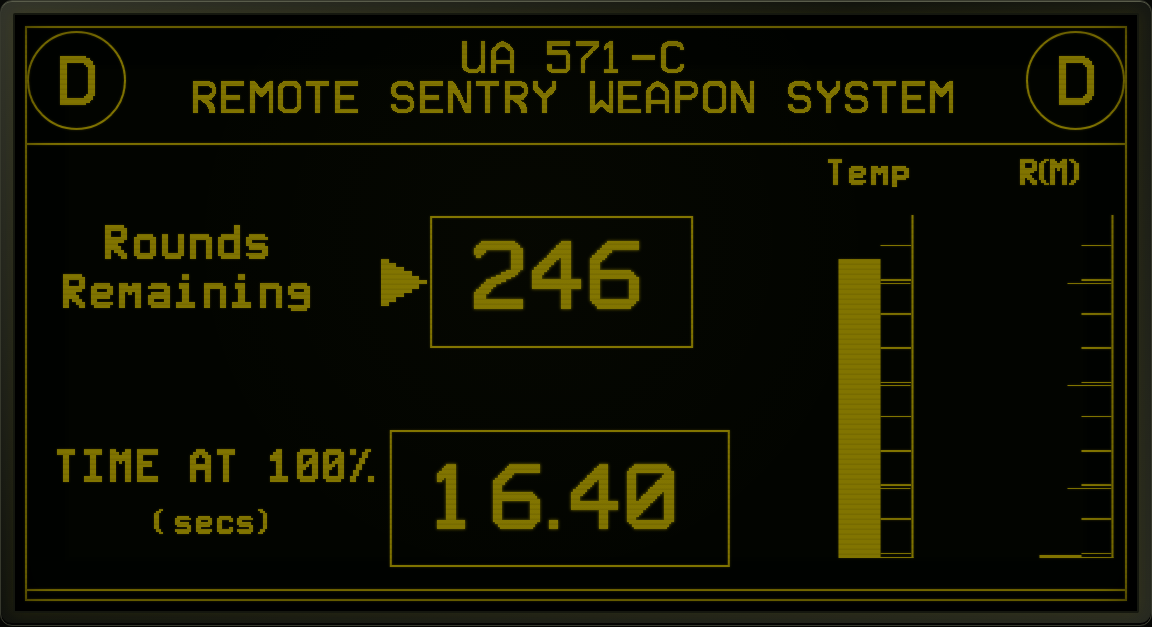
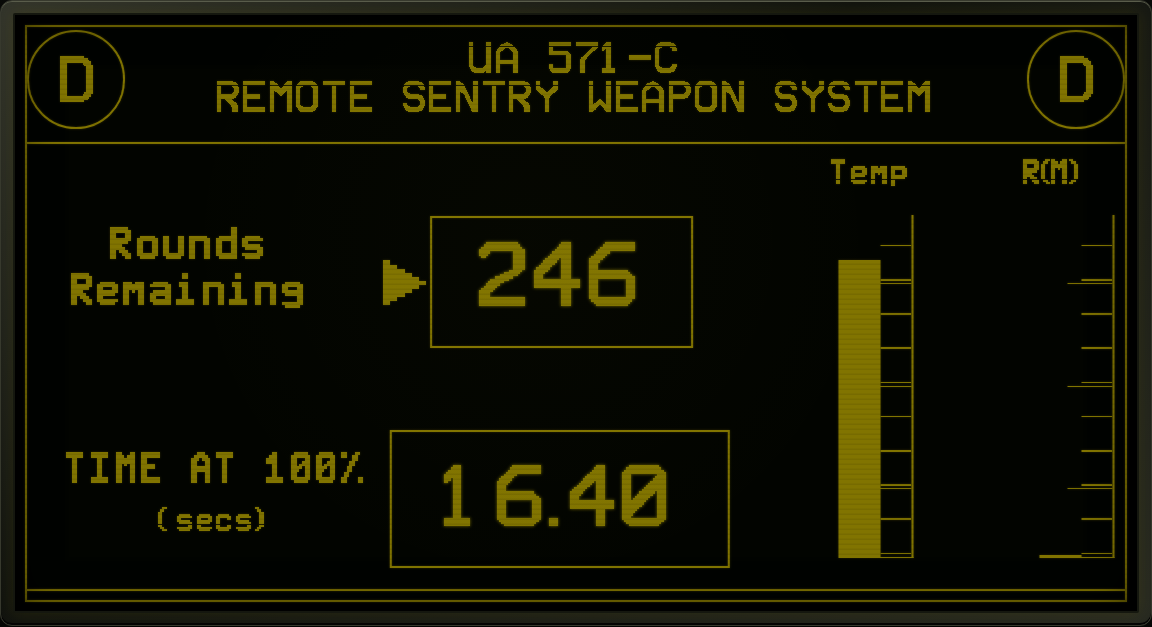
cleanup

diff --git a/index.html b/index.html
@@ -10,7 +10,7 @@
   <meta name="robots" content="index,follow,max-image-preview:large">
 
   <title>UA 571-C Remote Sentry System</title>
-  <link rel="canonical" href="https://UA571C.com/">
+  <link rel="canonical" href="https://ua571c.com/">
   <link rel="icon" href="favicon.svg" type="image/svg+xml">
   <link rel="manifest" href="site.webmanifest">
 
@@ -18,8 +18,9 @@
   <meta property="og:site_name" content="UA571C.com">
   <meta property="og:title" content="UA 571-C Remote Sentry System">
   <meta property="og:description" content="A keyboard-controlled working-prop study of the remote sentry terminal from Aliens.">
-  <meta property="og:url" content="https://UA571C.com/">
-  <meta property="og:image" content="https://UA571C.com/preview.png">
+  <meta property="og:url" content="https://ua571c.com/">
+  <meta property="og:image" content="https://ua571c.com/preview.png">
+  <meta property="og:image:type" content="image/png">
   <meta property="og:image:width" content="1152">
   <meta property="og:image:height" content="627">
   <meta property="og:image:alt" content="A black and yellow UA 571-C remote sentry system terminal interface.">
@@ -27,7 +28,7 @@
   <meta name="twitter:card" content="summary_large_image">
   <meta name="twitter:title" content="UA 571-C Remote Sentry System">
   <meta name="twitter:description" content="Boot, configure, test, and operate the fictional remote sentry terminal.">
-  <meta name="twitter:image" content="https://UA571C.com/preview.png">
+  <meta name="twitter:image" content="https://ua571c.com/preview.png">
   <meta name="twitter:image:alt" content="A black and yellow UA 571-C remote sentry system terminal interface.">
 
   <link rel="stylesheet" href="styles.css">
@@ -37,7 +38,7 @@
     "@context": "https://schema.org",
     "@type": "WebSite",
     "name": "UA571C.com",
-    "url": "https://UA571C.com/",
+    "url": "https://ua571c.com/",
     "description": "A keyboard-controlled working-prop study of the fictional UA 571-C remote sentry terminal.",
     "creator": {
       "@type": "Person",

diff --git a/README.md b/README.md
@@ -1,27 +1,17 @@
 # UA571C.com
 
 [![CI](https://github.com/banastas/UA571C.com/actions/workflows/ci.yml/badge.svg)](https://github.com/banastas/UA571C.com/actions/workflows/ci.yml)
-[![Checks](https://img.shields.io/badge/unit%20tests-20%20passing-817400?style=flat-square&labelColor=020300)](#verification)
 [![Runtime](https://img.shields.io/badge/runtime-zero%20dependencies-fff600?style=flat-square&labelColor=020300)](#local-development)
 
-A keyboard-controlled working-prop study of the UA 571-C remote sentry terminal from <a href="https://onesheet.org/movie/aliens-1986/">*Aliens*</a>.
+A keyboard-controlled working-prop study of the UA 571-C remote sentry terminal from [*Aliens*](https://onesheet.org/movie/aliens-1986/).
 
-![The UA 571-C terminal running in a desktop browser](preview.png)
+**[Launch the terminal at UA571C.com](https://ua571c.com/)**
 
-UA571C.com is a product site that stays inside the product. There is no conventional landing page, navigation, feature grid, or gallery. The visitor boots directly into the fictional remote terminal, configures the system, runs its test routine, arms it, and watches 500 rounds disappear.
+[![The UA 571-C terminal showing 246 rounds remaining in a desktop browser](preview.png)](https://ua571c.com/)
 
-The interface is rebuilt in HTML, CSS, and JavaScript from visual references. No film stills, video, audio, frameworks, or third-party runtime services are shipped with the site. The terminal self-hosts browser conversions of the original 1984 GRiD bitmap font binaries preserved by [Thom Cherryhomes](https://github.com/tschak909), whose [UA571C reconstruction](https://github.com/tschak909/UA571C) includes the recovered GRiD development environment and source.
+UA571C.com stays inside the product. There is no conventional landing page, navigation, feature grid, or gallery. The visitor boots directly into the fictional remote terminal, configures the system, runs its test routine, arms it, and watches 500 rounds disappear.
 
-The recovered Pascal source maps TypeBlock 12×16 to the header and numeric readouts, TypeBlock 24×32 to the unit roundels, TypeBlock 9×12 to fields and telemetry labels, and TypeGRiD 5×8 to system text. In the responsive browser version, the header and counters use the original 24×32 companion face as well: it preserves the same GRiD construction at display sizes where the packed 12×16 strokes become ambiguous. The original `.TYP` objects, mechanical WOFF2 conversions, attribution, and reproducible converter are all included in [`assets/fonts`](assets/fonts/README.md).
-
-The current telemetry layout follows the clearest full-screen film reference, including its `D` roundels. `UA 571-C` is the weapon model; the roundel letter identifies the active sentry unit.
-
-The boot sequence completes automatically. Press `Escape`, activate the skip
-button, or click anywhere on the boot screen to enter the terminal immediately.
-
-Generated font assets use content-hashed filenames because Cloudflare serves
-them with a long immutable cache lifetime. Regenerating a font therefore also
-requires updating its filename and the matching `@font-face` URL.
+The interface is rebuilt in HTML, CSS, and JavaScript from visual references. It ships no film stills, video, recorded audio, framework, or third-party runtime library. Terminal audio is synthesized locally with the Web Audio API after user input.
 
 ## Controls
 
@@ -38,21 +28,24 @@ requires updating its filename and the matching `@font-face` URL.
 | `?` | Show the command overlay |
 | `Esc` | Cease fire or close the current overlay |
 
-Every selector and command is also clickable or tappable. Audio is synthesized locally with the Web Audio API and begins only after user input.
+Every selector and command also has a pointer and touch path. The boot sequence completes automatically. Press `Escape`, activate the skip button, or click the boot surface to enter the terminal immediately.
 
-## Analytics
+Phones and tablets operate in landscape. Installed and fullscreen modes request a landscape display. Portrait browser sessions show a focused rotation interlock and safely cease active or automatic fire until the device returns to landscape. Reduced-motion preferences skip the animated boot sequence.
 
-Google Analytics 4 (`G-T97SY9N13B`) measures the production terminal journey, including boot completion, selector changes, diagnostics, view changes, firing sessions, reloads, automatic engagement, sound/fullscreen/help use, faults, and the orientation interlock. The tag is production-host gated, excludes URL queries and fragments, disables Google Signals and ad-personalization signals, and never emits per-round events. Local development and hosting previews remain silent.
+## Original GRiD fonts
 
-The event and parameter contract, GA4 custom-definition map, privacy boundary, and runtime verification procedure are documented in [`docs/ANALYTICS.md`](docs/ANALYTICS.md).
+The terminal self-hosts browser conversions of the original 1984 GRiD bitmap font binaries preserved by [Thom Cherryhomes](https://github.com/tschak909), whose [UA571C reconstruction](https://github.com/tschak909/UA571C) includes the recovered GRiD development environment and Pascal source.
 
-Phones and tablets operate in landscape. Installed/fullscreen mode requests a landscape display, while portrait browser sessions show a focused device-rotation interlock and safely cease any active or automatic fire until the device returns to landscape. The interlock follows the visual viewport during rotation so transient iOS Safari orientation-query lag cannot obscure the landscape terminal.
+The recovered source maps TypeBlock 12×16 to headers and numeric readouts, TypeBlock 24×32 to unit roundels, TypeBlock 9×12 to fields and telemetry labels, and TypeGRiD 5×8 to system text. This responsive browser version uses the original 24×32 companion face for headers and counters because its strokes remain legible at display sizes where the packed 12×16 face becomes ambiguous.
+
+The original `.TYP` objects, deterministic WOFF2 conversions, attribution, and reproducible converter are documented in [`assets/fonts`](assets/fonts/README.md). Generated font filenames contain a content digest because production serves them with an immutable cache lifetime.
 
 ## Local development
 
-The site is intentionally build-free and has no runtime dependencies. Starting it locally requires only Python; the optional browser test suite uses Playwright.
+The site is build-free and has no runtime dependencies. Node.js 20 or newer is required for the development and browser-test tooling.
 
 ```sh
+npm ci
 npm start
 ```
 
@@ -60,83 +53,81 @@ Open <http://localhost:4173>.
 
 ## Verification
 
+Run the fast state, analytics, font, structure, metadata, deployment, and accessibility checks:
+
 ```sh
 npm run check
 ```
 
-For the desktop and mobile browser suite:
+Install Chromium once, then run the complete browser suite:
 
 ```sh
-npm install
 npx playwright install chromium
-npm run test:browser
+npm run check:all
 ```
 
-The automated suite covers:
+The browser suite exercises desktop and mobile boot behavior, controls, state transitions, film-matched timing, critical warnings, responsive bounds, accessibility names, orientation safety, analytics privacy, the 404 route, and console errors. CI runs both layers on every push to `main` and every pull request.
 
-- Reference-screen defaults and the 500-round initial state
-- Selector cycling, wrapping, and invalid input
-- Safe and armed firing gates
-- Ammunition depletion and automatic cutoff
-- Thermal cutoff, cooling, cease fire, and reload
-- Film-matched 15-round-per-second countdown and 50-round critical threshold
-- Unique DOM identifiers and application hooks
-- Module loading, canonical metadata, and accessibility affordances
-- Required deployment files
-- Original GRiD object metrics, one-based strike decoding, and the `81H` pointer glyph
-- TypeBlock 9×12 and 12×16 low-bit cell alignment for clean labels and headers
-- TypeBlock 24×32 display-order packing for legible unit roundels
-- Readable original GRiD face assignments across boot, configuration, telemetry, and command-overlay states
-- Optical decimal spacing for the fixed-cell TypeBlock countdown at initial, active, and critical values
-- Landscape-only phone and tablet operation with portrait interlock and safe firing suspension
-- Portrait rotation guidance with reserved animation clearance from the surrounding copy
-- Shallow iOS-style landscape viewports without a stale portrait interlock or horizontal overflow
-- Container-relative configuration and live telemetry at wide, shallow Safari viewport proportions
-- Production-only GA4 loading, sanitized page views, allowlisted events, and privacy-safe parameters
+### Refreshing the social preview
 
-The interface has also been exercised in desktop and mobile browsers for boot, keyboard arming, view switching, firing, reload, the test routine, the alternating critical warning, the command dialog, touch input, responsive bounds, and console errors.
+The README image and Open Graph card are the same deterministic 1152×627 capture. Regenerate it from the current local source with:
+
+```sh
+npm run capture:preview
+```
+
+The capture reproduces the film-reference telemetry moment at 246 rounds remaining. Structural validation checks the PNG type and dimensions against the page metadata so the social card cannot silently drift.
+
+## Analytics and privacy
+
+Google Analytics 4 measures the production terminal journey, including boot completion, selector changes, diagnostics, view changes, firing sessions, reloads, automatic engagement, sound, fullscreen, help use, faults, and the orientation interlock.
+
+Analytics is gated to the production hostname, strips URL queries and fragments, disables Google Signals and ad-personalization signals, and never emits per-round events. Local development and hosting previews remain silent. The complete event contract, custom-definition map, privacy boundary, and live verification procedure are in [`docs/ANALYTICS.md`](docs/ANALYTICS.md).
 
 ## Deployment
 
 The repository root is the deployable static artifact. No build command is required.
 
-- **Publish directory:** `/`
-- **Build command:** none
-- **Canonical domain:** `https://ua571c.com/`
-- **Fallback:** `404.html`
+| Setting | Value |
+| --- | --- |
+| Publish directory | `/` |
+| Build command | None |
+| Canonical domain | `https://ua571c.com/` |
+| Not-found page | `404.html` |
 
-`CNAME` supports GitHub Pages. `_headers` provides compatible security headers on Cloudflare Pages and Netlify. `.nojekyll` prevents GitHub Pages from applying Jekyll processing.
-
-DNS and hosting configuration remain external to this repository.
+`CNAME` supports GitHub Pages. `_headers` provides compatible security and cache headers on Cloudflare Pages and Netlify. `.nojekyll` prevents GitHub Pages from applying Jekyll processing. DNS and hosting configuration remain external to this repository.
 
 ## Project structure
 
 ```text
-index.html              Terminal markup and site metadata
-styles.css              Responsive terminal, CRT, and interaction styling
-assets/fonts/           Original GRiD font objects and browser conversions
-src/app.mjs             DOM, keyboard, touch, audio, and animation behavior
-src/state.mjs           Pure terminal state machine
-src/analytics.mjs       Production-gated GA4 runtime and event contract
-tests/state.test.mjs    Node test suite
-tests/analytics.test.mjs Analytics host, privacy, and event-contract tests
-tests/browser.spec.mjs  Desktop and mobile interaction suite
-scripts/validate.mjs    Structural and deployment validation
-scripts/build-fonts.py  Reproducible GRiD .TYP to WOFF2 converter
-playwright.config.mjs   Local and CI browser-test configuration
-docs/CONCEPT.md         Product and experience rationale
-docs/ANALYTICS.md       GA4 event, parameter, privacy, and verification contract
+index.html                       Terminal markup, metadata, and structured data
+styles.css                       Responsive terminal, CRT, and interaction styling
+404.html                         Branded not-found page
+preview.png                      README and social-card capture
+assets/fonts/                    Original GRiD objects and browser conversions
+src/app.mjs                      DOM, input, audio, animation, and orientation behavior
+src/state.mjs                    Pure terminal state machine
+src/analytics.mjs                Production-gated GA4 runtime and event contract
+src/analytics-page.mjs           Canonical analytics entry point for the 404 page
+tests/*.test.mjs                 Node state, font, and analytics tests
+tests/browser.spec.mjs           Desktop and mobile Playwright suite
+scripts/validate.mjs             Structural and deployment validation
+scripts/build-fonts.py           Reproducible GRiD .TYP to WOFF2 converter
+playwright.config.mjs            Local and CI browser-test configuration
+docs/CONCEPT.md                  Product and experience rationale
+docs/ANALYTICS.md                Analytics event and privacy contract
+.github/workflows/ci.yml         Continuous integration
 ```
 
 ## Design boundaries
 
-- The interface itself is the product demonstration and the entire product site.
+- The interface is the product demonstration and the entire product site.
 - The crude grid, yellow phosphor, hard selection bars, and finite ammunition state are the identity.
 - Explanatory material stays outside the live terminal so the working-prop illusion survives.
 - The project is a fan-made interface study, not an official product or a simulation of a real weapon system.
-- Motion preferences are respected, and every interaction has a keyboard and pointer path.
+- Motion preferences are respected, and every interaction has keyboard and pointer paths.
 
-See [the concept note](docs/CONCEPT.md) for the complete rationale.
+The current telemetry layout follows the clearest full-screen film reference, including its `D` roundels. `UA 571-C` is the fictional weapon model, while the roundel letter identifies the active sentry unit. See [the concept note](docs/CONCEPT.md) for the complete rationale.
 
 ## Acknowledgment
 
